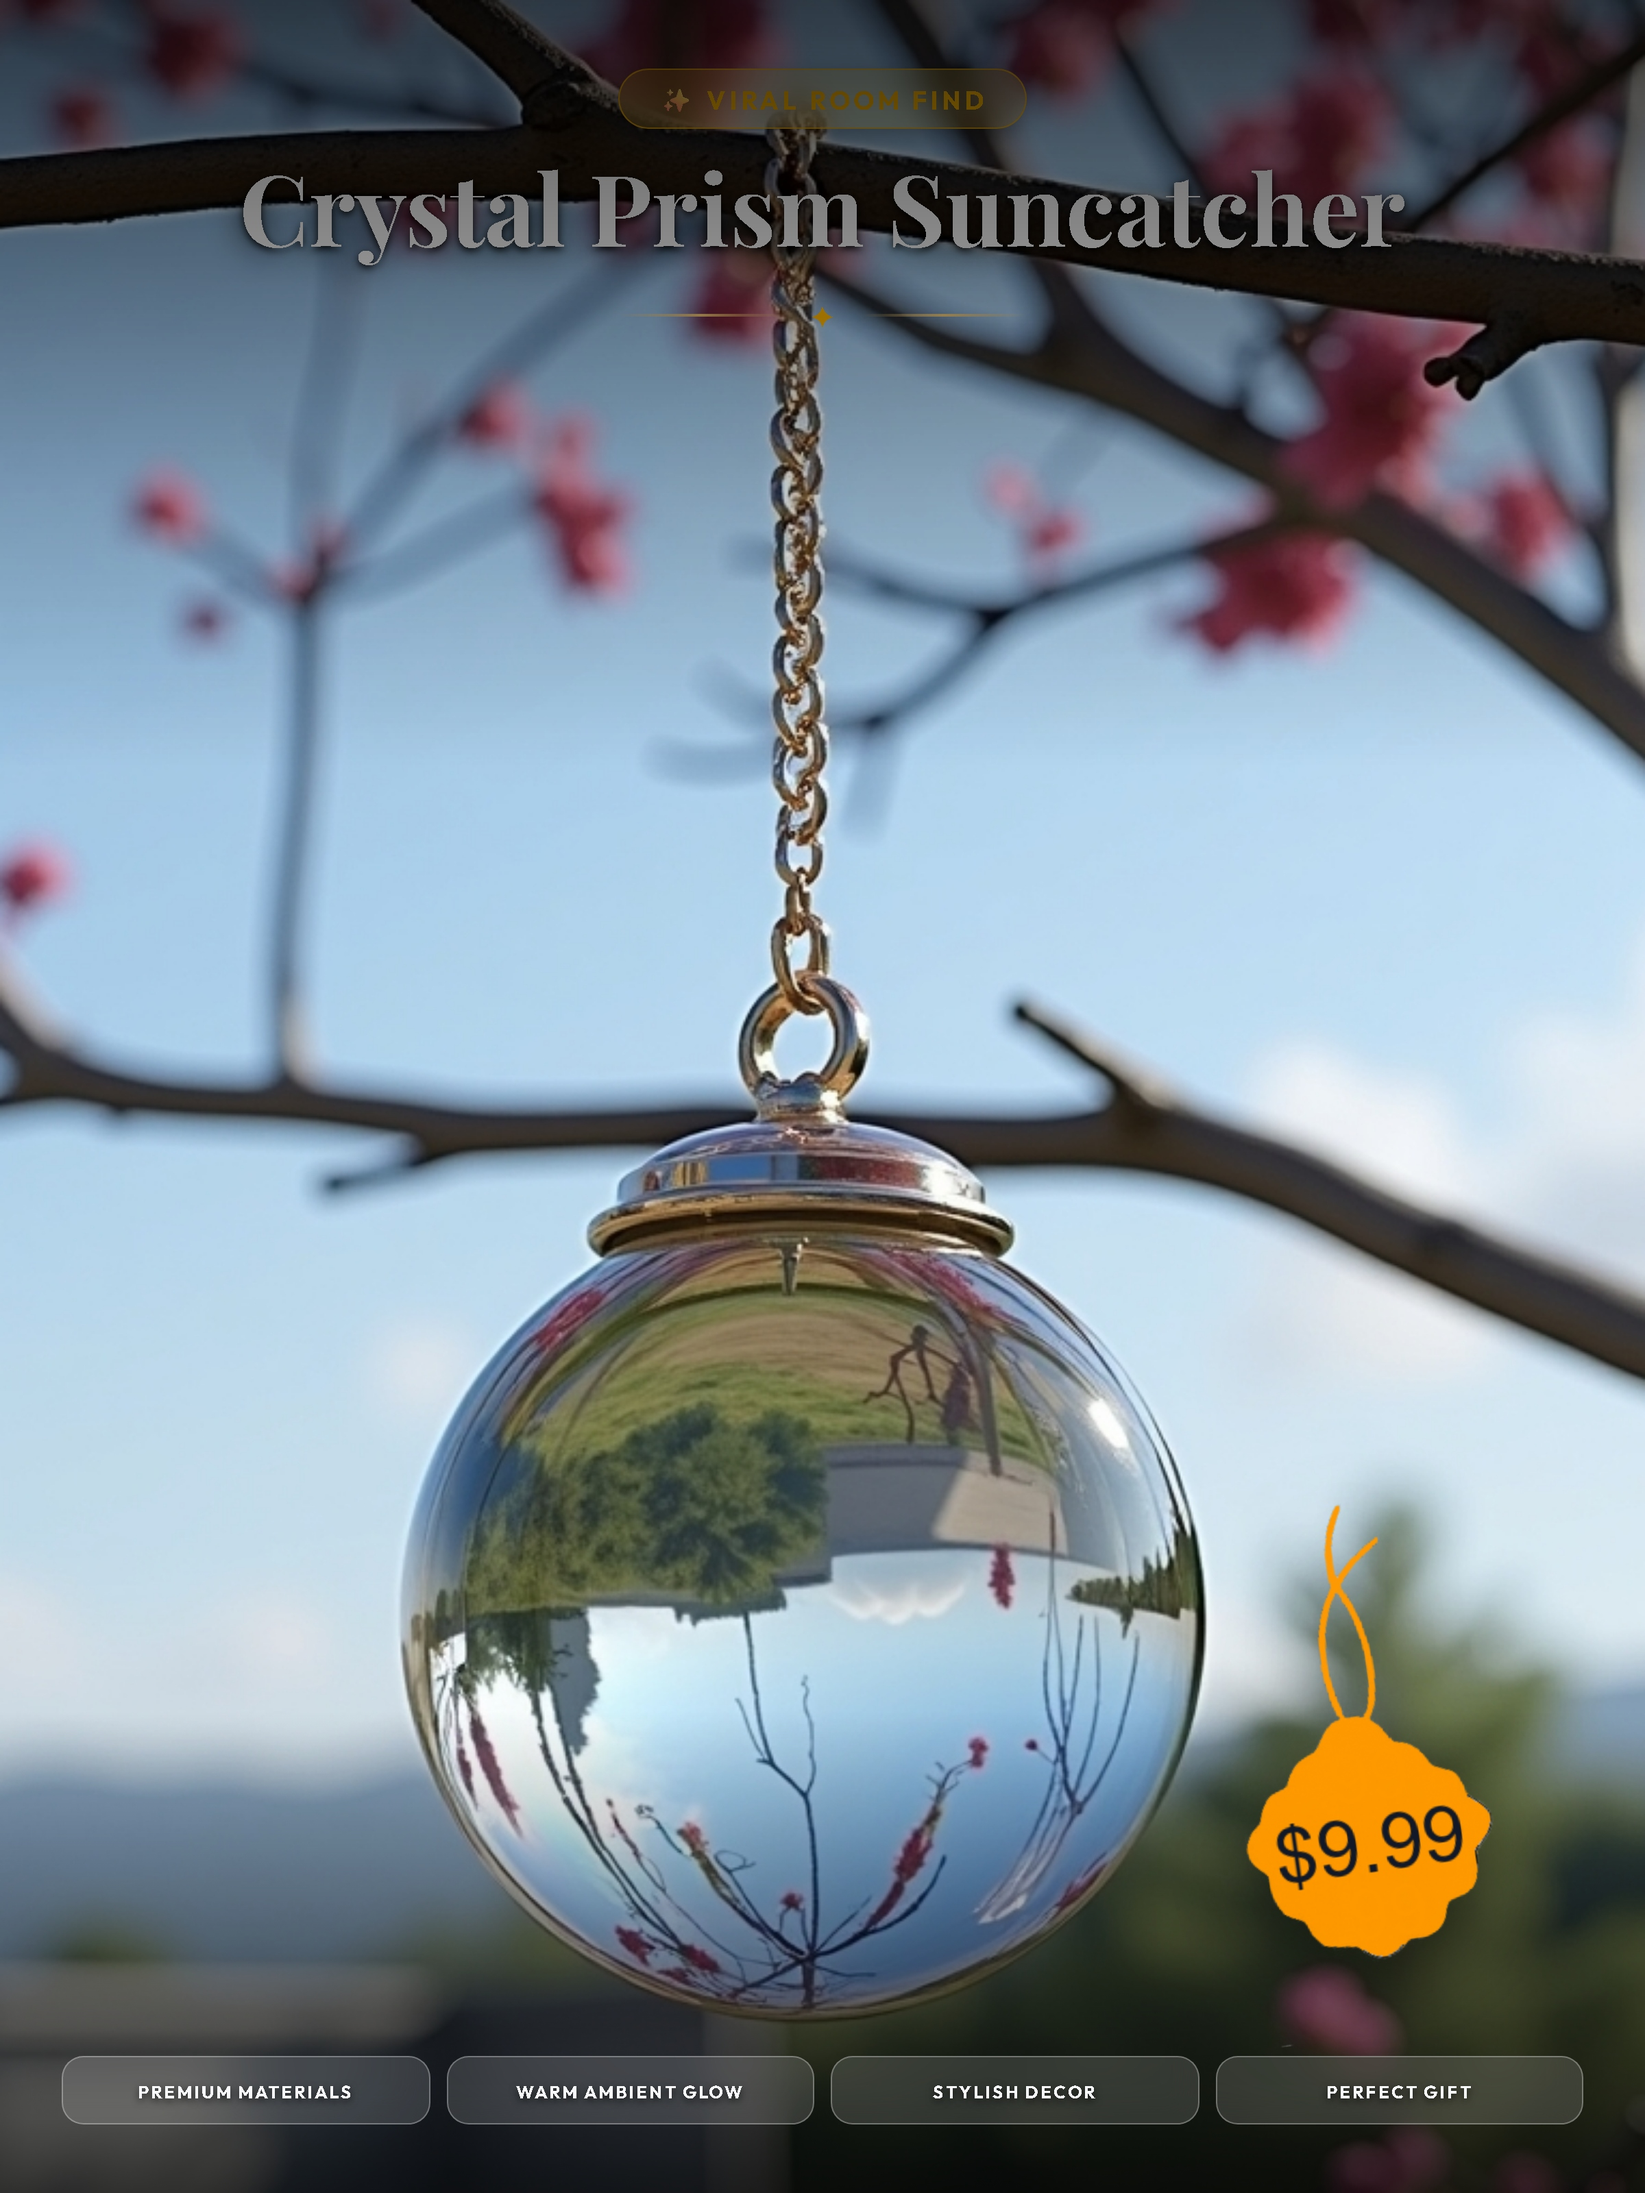
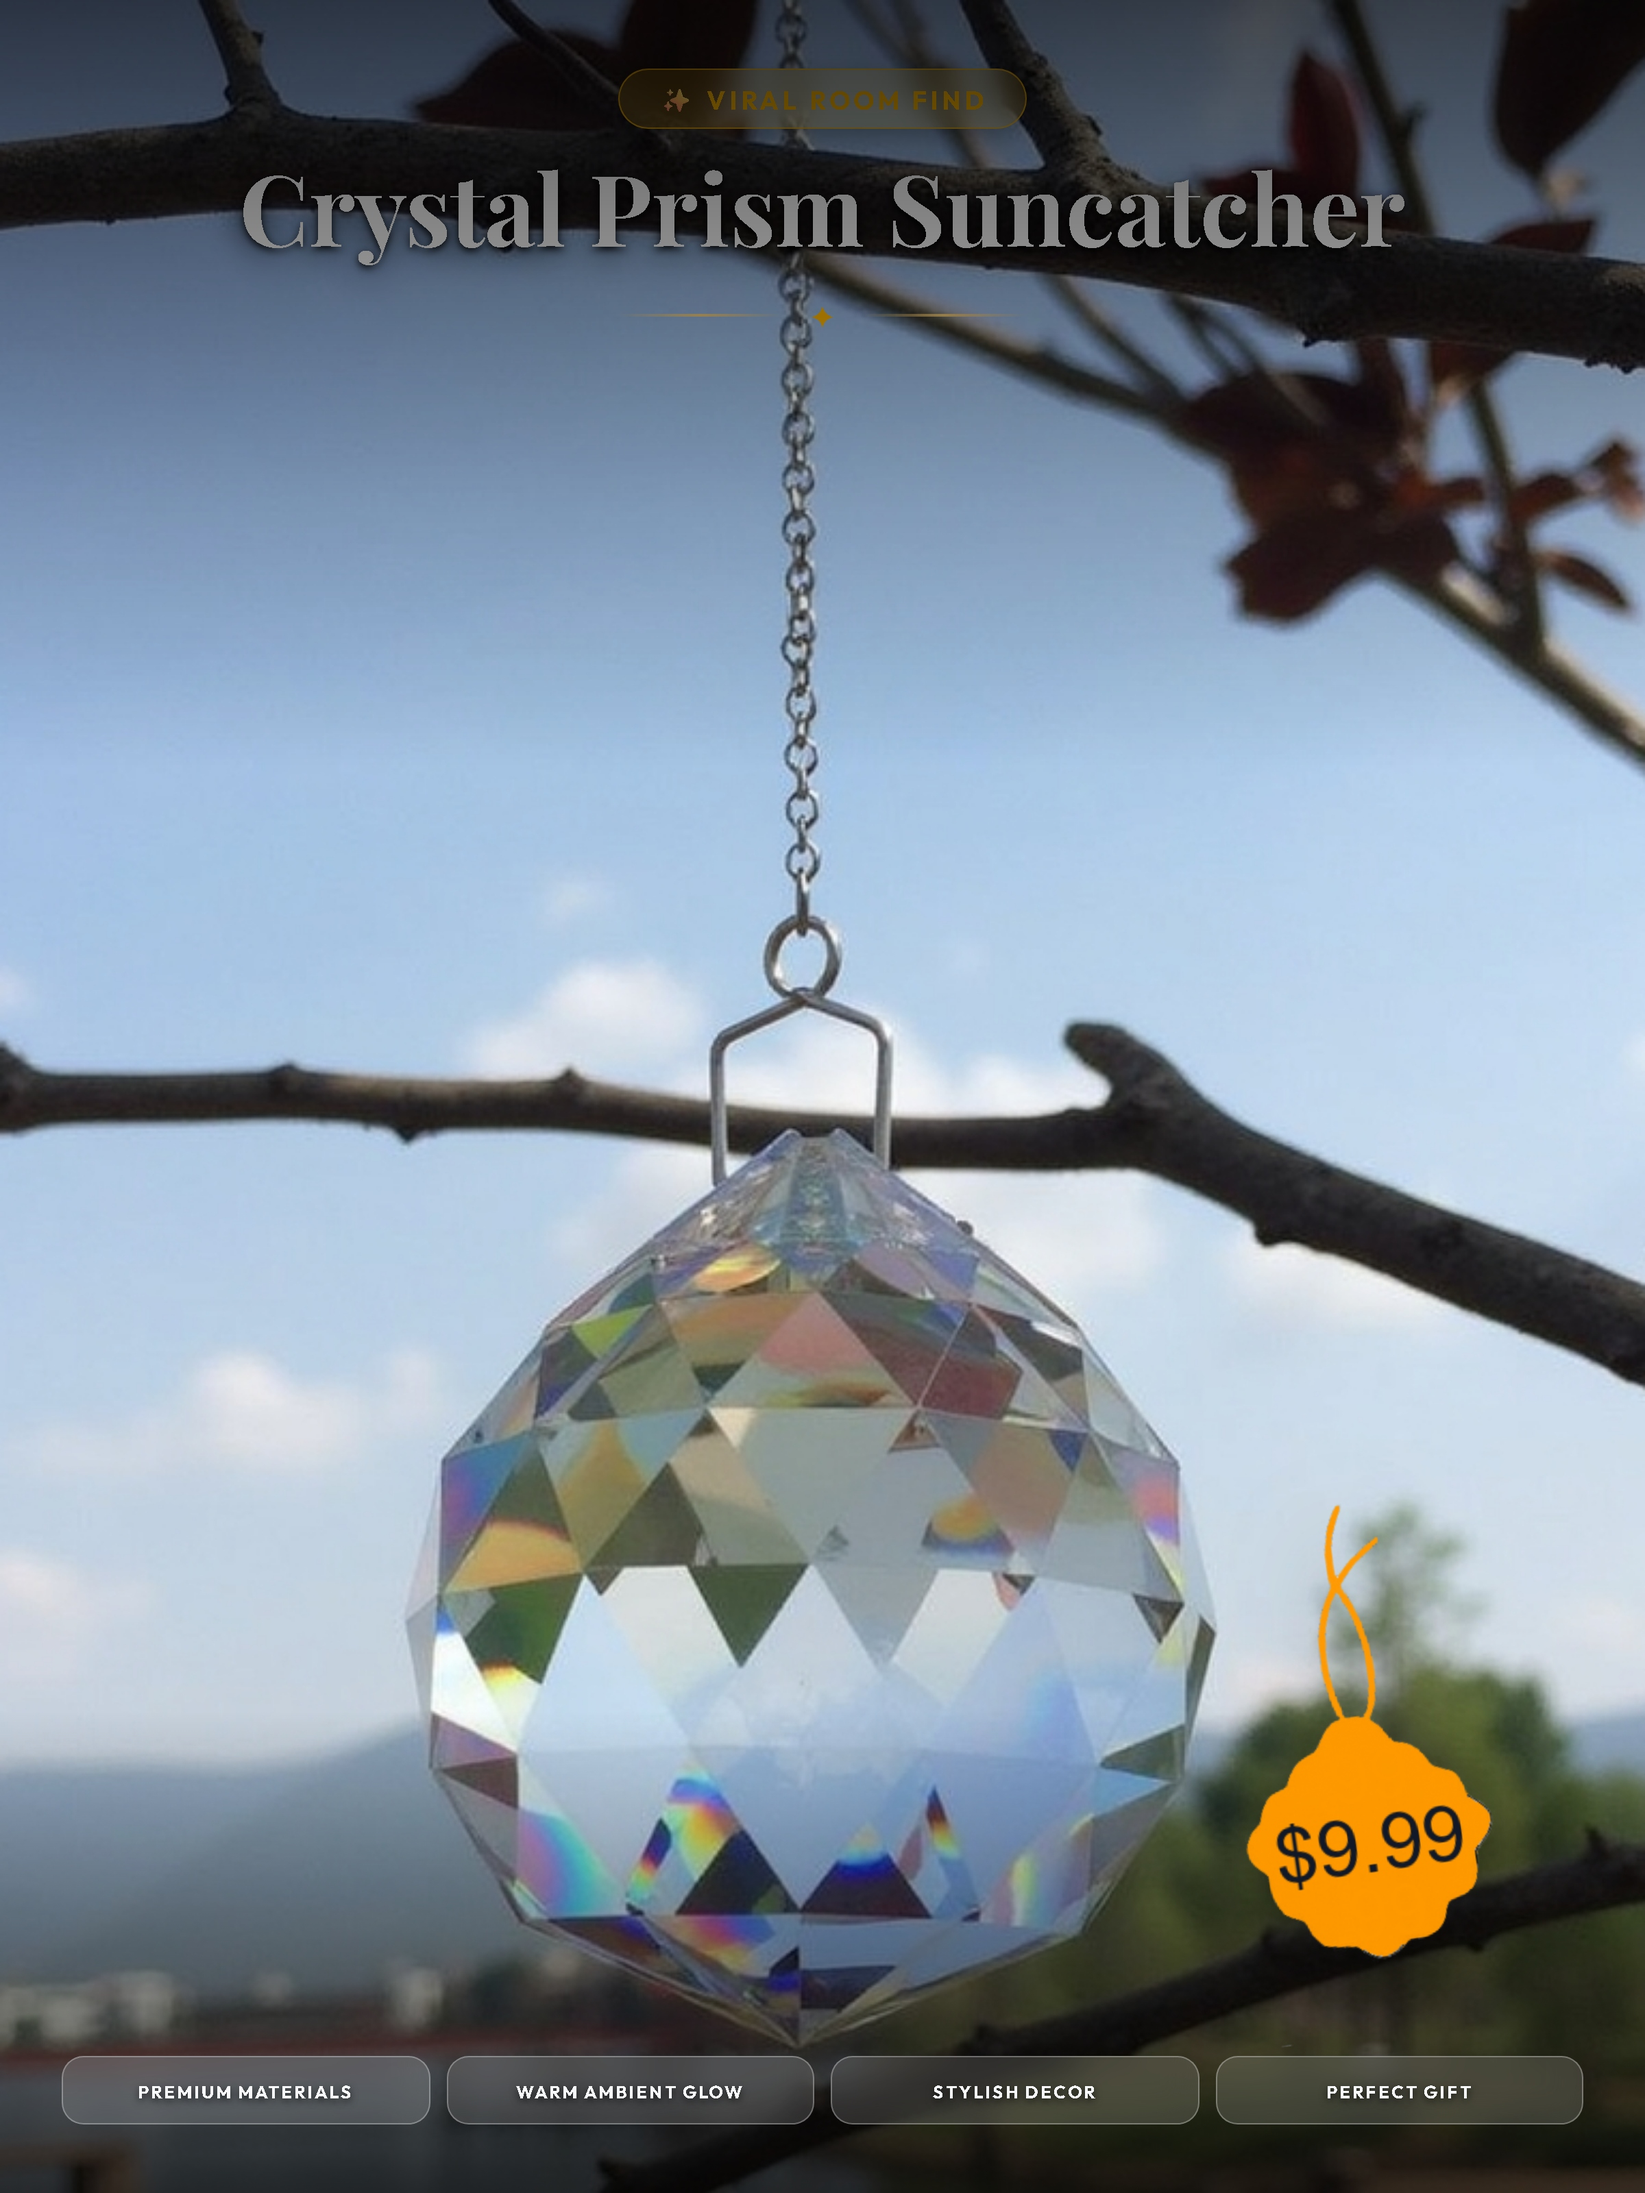
re-publish B07HP22QTZ crystal suncatcher campaign

diff --git a/process_selected_crystal_suncatcher.py b/process_selected_crystal_suncatcher.py
@@ -38,16 +38,17 @@ print("\n[Step 2] Creating Multi-Angle Composite Reference Sheet...")
 ref_sheet_path = create_multi_photo_reference_sheet(photos, filename_prefix=f"product_{asin}", max_photos=6)
 
 # Step 3: Vision Master Prompt
-print("\n[Step 3] Generating Vision Master Commercial Prompt...")
+print("\n[Step 3] Generating Vision Master Commercial Prompt (Preserving Natural Nature/Window Background)...")
 cozy_prompt = generate_cozy_image_prompt(
     product_title=prod['title'],
     category="Sunlight Window & Crystal Rainbow Decor",
     key_features=prod['features'],
-    ref_sheet_path=ref_sheet_path
+    ref_sheet_path=ref_sheet_path,
+    is_white_background=False
 )
 
-# Step 4: FLUX-Dev Paid Img2Img AI Render (Seed 591928, FP16 32-step)
-print("\n[Step 4] Paid Replicate FLUX-Dev Img2Img Rendering 8K Commercial Graphic...")
+# Step 4: FLUX-Dev Paid Img2Img AI Render (Seed 591928, FP16 32-step, strength=0.30)
+print("\n[Step 4] Paid Replicate FLUX-Dev Img2Img Rendering 8K Commercial Graphic (strength=0.30)...")
 from modules.amazon_extractor import select_clean_photo_or_skip
 winner_photo, skip = select_clean_photo_or_skip(photos)
 init_photo = winner_photo if winner_photo else (photos[0] if photos else "")
@@ -56,7 +57,8 @@ print(f" -> Using Winner Photo Input: {init_photo}")
 raw_image_path = generate_cozy_image(
     prompt=cozy_prompt,
     filename_prefix=f"focus_product_{asin}",
-    init_image_path=init_photo
+    init_image_path=init_photo,
+    prompt_strength=0.30
 )
 
 # Step 5: SEO Copywriter
